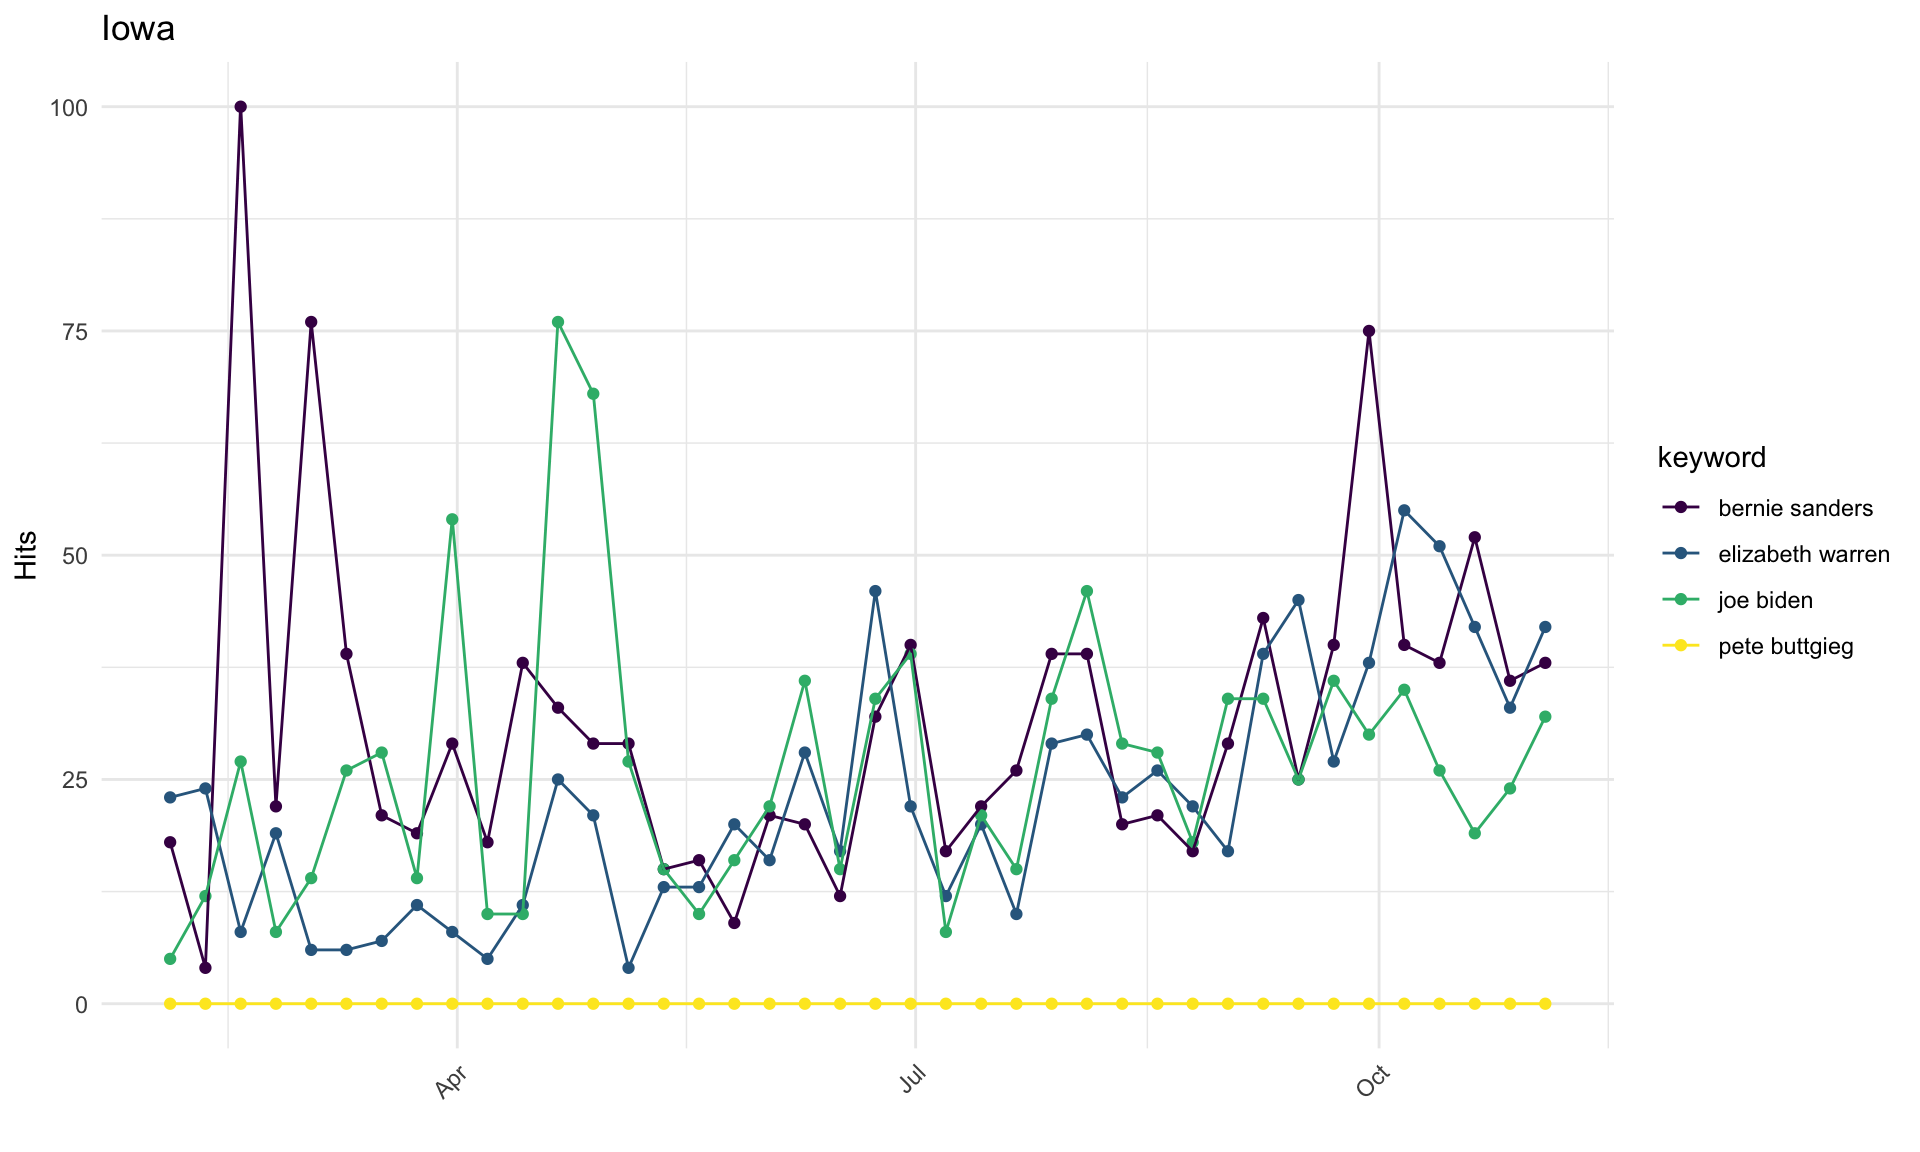
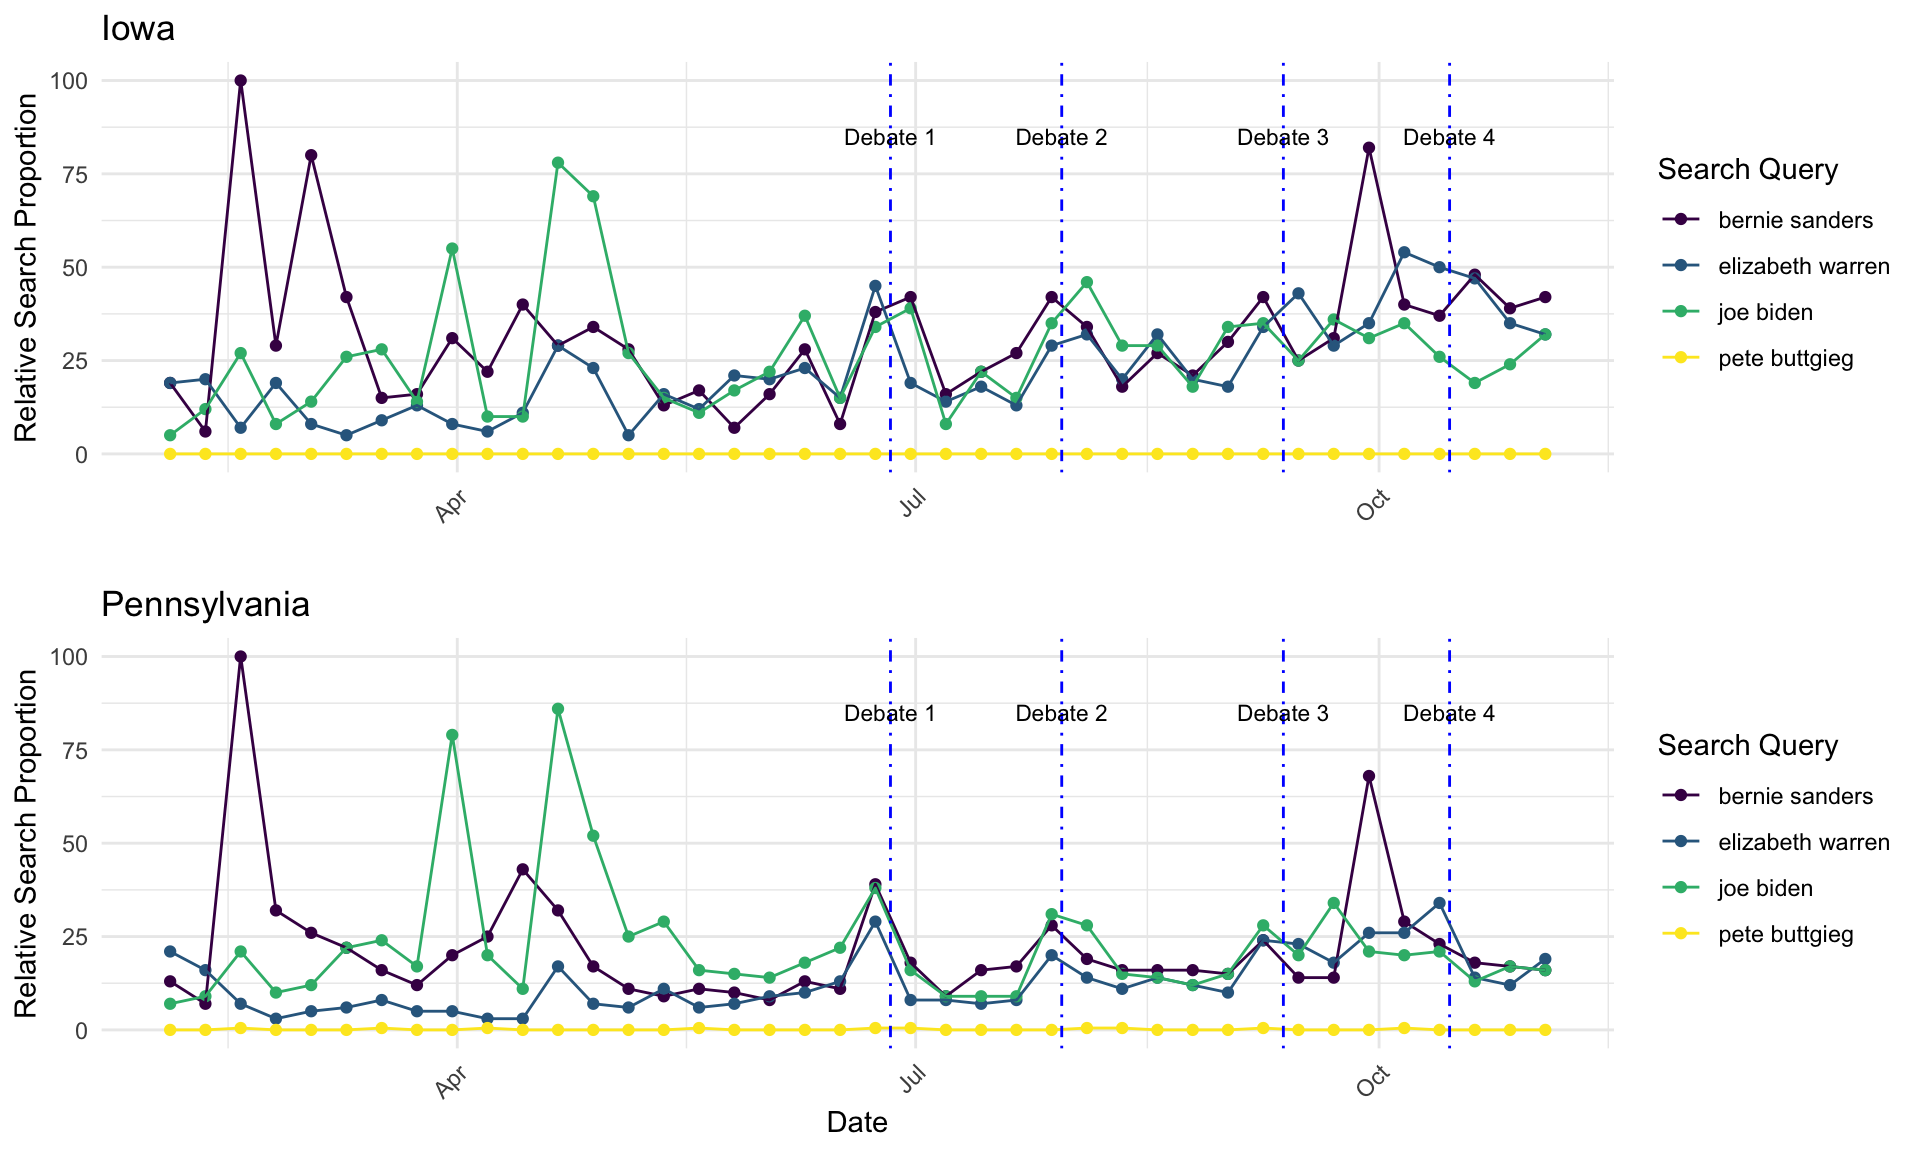
added debate dates to google trends graphs

diff --git a/Battleground.html b/Battleground.html
@@ -340,22 +340,22 @@ $(document).ready(function () {
 <hr />
 <div id="iowa" class="section level3">
 <h3>Iowa</h3>
-<div id="htmlwidget-cb8ae7b6d22a674e493f" style="width:90%;height:576px;" class="plotly html-widget"></div>
-<script type="application/json" data-for="htmlwidget-cb8ae7b6d22a674e493f">{"x":{"visdat":{"478d1c41e3d6":["function () ","plotlyVisDat"]},"cur_data":"478d1c41e3d6","attrs":{"478d1c41e3d6":{"y":{},"color":{},"colors":"Set3","alpha_stroke":1,"sizes":[10,100],"spans":[1,20],"type":"box"}},"layout":{"margin":{"b":40,"l":60,"t":25,"r":10},"yaxis":{"domain":[0,1],"automargin":true,"title":"pct"},"xaxis":{"domain":[0,1],"automargin":true},"hovermode":"closest","showlegend":true},"source":"A","config":{"showSendToCloud":false},"data":[{"fillcolor":"rgba(190,138,190,0.5)","y":[14,16.6,12,7,7.2,14],"type":"box","name":"Buttigieg","marker":{"color":"rgba(190,138,190,1)","line":{"color":"rgba(190,138,190,1)"}},"line":{"color":"rgba(190,138,190,1)"},"xaxis":"x","yaxis":"y","frame":null},{"fillcolor":"rgba(217,235,180,0.5)","y":[28,16.8,22,24.6,24,18,20,12,9],"type":"box","name":"Warren","marker":{"color":"rgba(217,235,180,1)","line":{"color":"rgba(217,235,180,1)"}},"line":{"color":"rgba(217,235,180,1)"},"xaxis":"x","yaxis":"y","frame":null},{"fillcolor":"rgba(225,236,167,0.5)","y":[12.5,21,18,24.1,10.38],"type":"box","name":"Sanders","marker":{"color":"rgba(225,236,167,1)","line":{"color":"rgba(225,236,167,1)"}},"line":{"color":"rgba(225,236,167,1)"},"xaxis":"x","yaxis":"y","frame":null},{"fillcolor":"rgba(241,236,140,0.5)","y":[12,17.6,22,25,29,17,24,19,27,25.3,29,32,30],"type":"box","name":"Biden","marker":{"color":"rgba(241,236,140,1)","line":{"color":"rgba(241,236,140,1)"}},"line":{"color":"rgba(241,236,140,1)"},"xaxis":"x","yaxis":"y","frame":null}],"highlight":{"on":"plotly_click","persistent":false,"dynamic":false,"selectize":false,"opacityDim":0.2,"selected":{"opacity":1},"debounce":0},"shinyEvents":["plotly_hover","plotly_click","plotly_selected","plotly_relayout","plotly_brushed","plotly_brushing","plotly_clickannotation","plotly_doubleclick","plotly_deselect","plotly_afterplot"],"base_url":"https://plot.ly"},"evals":[],"jsHooks":[]}</script>
+<div id="htmlwidget-a3a8be6c7ed0b74345d6" style="width:90%;height:576px;" class="plotly html-widget"></div>
+<script type="application/json" data-for="htmlwidget-a3a8be6c7ed0b74345d6">{"x":{"visdat":{"347f36bca2bb":["function () ","plotlyVisDat"]},"cur_data":"347f36bca2bb","attrs":{"347f36bca2bb":{"y":{},"ylab":"Percent","color":{},"colors":"Set3","alpha_stroke":1,"sizes":[10,100],"spans":[1,20],"type":"box"}},"layout":{"margin":{"b":40,"l":60,"t":25,"r":10},"yaxis":{"domain":[0,1],"automargin":true,"title":"pct"},"xaxis":{"domain":[0,1],"automargin":true},"hovermode":"closest","showlegend":true},"source":"A","config":{"showSendToCloud":false},"data":[{"fillcolor":"rgba(190,138,190,0.5)","y":[14,16.6,12,7,7.2,14],"ylab":"Percent","type":"box","name":"Buttigieg","marker":{"color":"rgba(190,138,190,1)","line":{"color":"rgba(190,138,190,1)"}},"line":{"color":"rgba(190,138,190,1)"},"xaxis":"x","yaxis":"y","frame":null},{"fillcolor":"rgba(217,235,180,0.5)","y":[28,16.8,22,24.6,24,18,20,12,9],"ylab":"Percent","type":"box","name":"Warren","marker":{"color":"rgba(217,235,180,1)","line":{"color":"rgba(217,235,180,1)"}},"line":{"color":"rgba(217,235,180,1)"},"xaxis":"x","yaxis":"y","frame":null},{"fillcolor":"rgba(225,236,167,0.5)","y":[12.5,21,18,24.1,10.38],"ylab":"Percent","type":"box","name":"Sanders","marker":{"color":"rgba(225,236,167,1)","line":{"color":"rgba(225,236,167,1)"}},"line":{"color":"rgba(225,236,167,1)"},"xaxis":"x","yaxis":"y","frame":null},{"fillcolor":"rgba(241,236,140,0.5)","y":[12,17.6,22,25,29,17,24,19,27,25.3,29,32,30],"ylab":"Percent","type":"box","name":"Biden","marker":{"color":"rgba(241,236,140,1)","line":{"color":"rgba(241,236,140,1)"}},"line":{"color":"rgba(241,236,140,1)"},"xaxis":"x","yaxis":"y","frame":null}],"highlight":{"on":"plotly_click","persistent":false,"dynamic":false,"selectize":false,"opacityDim":0.2,"selected":{"opacity":1},"debounce":0},"shinyEvents":["plotly_hover","plotly_click","plotly_selected","plotly_relayout","plotly_brushed","plotly_brushing","plotly_clickannotation","plotly_doubleclick","plotly_deselect","plotly_afterplot"],"base_url":"https://plot.ly"},"evals":[],"jsHooks":[]}</script>
 <p>Median polling results from 33 polls for leading candidates show Biden still ahead of the pack with 25 percentage points but also a large range of 20 points between lowest and highest predictions. Warren follows with a similarly wide range of 19 points. Just a 2 percentage point difference between her and Sanders may signify a tight race for second place. Buttigieg continues to lag behind these three but remains in double digits with 13 points, all the while exhibiting the lowest range in polls at only 9.6 between his highest and lowest predictions.</p>
 </div>
 <div id="pennsylvania" class="section level3">
 <h3>Pennsylvania</h3>
-<div id="htmlwidget-b7b527da3c3d6ff0d124" style="width:90%;height:576px;" class="plotly html-widget"></div>
-<script type="application/json" data-for="htmlwidget-b7b527da3c3d6ff0d124">{"x":{"visdat":{"478d7657a771":["function () ","plotlyVisDat"]},"cur_data":"478d7657a771","attrs":{"478d7657a771":{"y":{},"color":{},"colors":"Set3","alpha_stroke":1,"sizes":[10,100],"spans":[1,20],"type":"box"}},"layout":{"margin":{"b":40,"l":60,"t":25,"r":10},"yaxis":{"domain":[0,1],"automargin":true,"title":"pct"},"xaxis":{"domain":[0,1],"automargin":true},"hovermode":"closest","showlegend":true},"source":"A","config":{"showSendToCloud":false},"data":[{"fillcolor":"rgba(190,138,190,0.5)","y":[8.5],"type":"box","name":"Buttigieg","marker":{"color":"rgba(190,138,190,1)","line":{"color":"rgba(190,138,190,1)"}},"line":{"color":"rgba(190,138,190,1)"},"xaxis":"x","yaxis":"y","frame":null},{"fillcolor":"rgba(217,235,180,0.5)","y":[9,8,8],"type":"box","name":"Warren","marker":{"color":"rgba(217,235,180,1)","line":{"color":"rgba(217,235,180,1)"}},"line":{"color":"rgba(217,235,180,1)"},"xaxis":"x","yaxis":"y","frame":null},{"fillcolor":"rgba(225,236,167,0.5)","y":[6,13],"type":"box","name":"Sanders","marker":{"color":"rgba(225,236,167,1)","line":{"color":"rgba(225,236,167,1)"}},"line":{"color":"rgba(225,236,167,1)"},"xaxis":"x","yaxis":"y","frame":null},{"fillcolor":"rgba(241,236,140,0.5)","y":[46],"type":"box","name":"Biden","marker":{"color":"rgba(241,236,140,1)","line":{"color":"rgba(241,236,140,1)"}},"line":{"color":"rgba(241,236,140,1)"},"xaxis":"x","yaxis":"y","frame":null}],"highlight":{"on":"plotly_click","persistent":false,"dynamic":false,"selectize":false,"opacityDim":0.2,"selected":{"opacity":1},"debounce":0},"shinyEvents":["plotly_hover","plotly_click","plotly_selected","plotly_relayout","plotly_brushed","plotly_brushing","plotly_clickannotation","plotly_doubleclick","plotly_deselect","plotly_afterplot"],"base_url":"https://plot.ly"},"evals":[],"jsHooks":[]}</script>
+<div id="htmlwidget-8c37c273a2021105872f" style="width:90%;height:576px;" class="plotly html-widget"></div>
+<script type="application/json" data-for="htmlwidget-8c37c273a2021105872f">{"x":{"visdat":{"347f1312c919":["function () ","plotlyVisDat"]},"cur_data":"347f1312c919","attrs":{"347f1312c919":{"y":{},"ylab":"Percent","color":{},"colors":"Set3","alpha_stroke":1,"sizes":[10,100],"spans":[1,20],"type":"box"}},"layout":{"margin":{"b":40,"l":60,"t":25,"r":10},"yaxis":{"domain":[0,1],"automargin":true,"title":"pct"},"xaxis":{"domain":[0,1],"automargin":true},"hovermode":"closest","showlegend":true},"source":"A","config":{"showSendToCloud":false},"data":[{"fillcolor":"rgba(190,138,190,0.5)","y":[8.5],"ylab":"Percent","type":"box","name":"Buttigieg","marker":{"color":"rgba(190,138,190,1)","line":{"color":"rgba(190,138,190,1)"}},"line":{"color":"rgba(190,138,190,1)"},"xaxis":"x","yaxis":"y","frame":null},{"fillcolor":"rgba(217,235,180,0.5)","y":[9,8,8],"ylab":"Percent","type":"box","name":"Warren","marker":{"color":"rgba(217,235,180,1)","line":{"color":"rgba(217,235,180,1)"}},"line":{"color":"rgba(217,235,180,1)"},"xaxis":"x","yaxis":"y","frame":null},{"fillcolor":"rgba(225,236,167,0.5)","y":[6,13],"ylab":"Percent","type":"box","name":"Sanders","marker":{"color":"rgba(225,236,167,1)","line":{"color":"rgba(225,236,167,1)"}},"line":{"color":"rgba(225,236,167,1)"},"xaxis":"x","yaxis":"y","frame":null},{"fillcolor":"rgba(241,236,140,0.5)","y":[46],"ylab":"Percent","type":"box","name":"Biden","marker":{"color":"rgba(241,236,140,1)","line":{"color":"rgba(241,236,140,1)"}},"line":{"color":"rgba(241,236,140,1)"},"xaxis":"x","yaxis":"y","frame":null}],"highlight":{"on":"plotly_click","persistent":false,"dynamic":false,"selectize":false,"opacityDim":0.2,"selected":{"opacity":1},"debounce":0},"shinyEvents":["plotly_hover","plotly_click","plotly_selected","plotly_relayout","plotly_brushed","plotly_brushing","plotly_clickannotation","plotly_doubleclick","plotly_deselect","plotly_afterplot"],"base_url":"https://plot.ly"},"evals":[],"jsHooks":[]}</script>
 <p>The smaller sample size of polls (7) may make it difficult to accurately represent current candidate polling status, and this fewer number of polls could be attributed to Pennsylvania possessing a later primary (April 28th), which means it hasn’t garnered as much attention for predictors. However, the overall field is exhibiting a similar trend to Iowa, as Biden leads the way with a median of 30 percentage points among sampled polls. He is followed by Sanders and Warren, who again are polling quite close together at a median of 9.5 and 8 percentage points, respectively. Buttigieg does not trail by much any longer, as he is showing a median of 6.3 percentage points. This means that the 2nd through 4th place candidates are all within 3 points of each other.</p>
 <hr />
 </div>
 </div>
 <div id="google-trends-by-state" class="section level1">
 <h1>Google Trends By State</h1>
-<p><img src="Battleground_files/figure-html/unnamed-chunk-8-1.png" width="90%" /></p>
-<p>Between Iowa and Pennsylvania, there are consistent spikes in search queries for the three leading candidates: Biden, Sanders, and Warren. Not only does each individual’s proportion of searches spike at similar time points in each state, but spikes for all three candidates seem to coincide, suggesting that voters are engaging in searches for numerous candidates at similar times. Sanders experienced significant popularity in search results in early spring and in October, likely around the time of the fourth debate. In spring in both states, he reached a search proportion of 100, which means he was the <a href="https://medium.com/google-news-lab/what-is-google-trends-data-and-what-does-it-mean-b48f07342ee8">most searched topic compared to all others on Google</a> in these regions at that point in time. Biden experienced his greatest spikes in voter search results later in the spring compared to Sanders, potentially due to debate 1 proceedings. Warren did not exhibit any significant spikes in search queries but has seen a steady increase in searches over time, at least in Iowa. Both Biden and Sanders have also expereinced steady overall increases in Iowa voter search queries over time, while in Pennsylvania they’ve ultimately leveled off. All three saw search increases around the third debate in July. Buttigieg however has not been prominent in search queries at any point over the course of the year in either state, despite his recent positive polling results in Iowa. Overall for the top 3 candidates, changes in search results in both states likely have reflected major events in the democratic race thus far, but search queries towards the end of this year do not reflect any clear preference in candidates.</p>
+<p><img src="Battleground_files/figure-html/unnamed-chunk-7-1.png" width="90%" /></p>
+<p>Between Iowa and Pennsylvania, there are consistent spikes in relative search queries for the three leading candidates: Biden, Sanders, and Warren. Not only does each individual’s proportion of searches spike at similar time points in each state, but spikes for all three candidates seem to coincide, suggesting that voters are engaging in searches for numerous candidates at similar times. Sanders experienced significant popularity in relative searches in early spring and in October, likely around the time of the fourth debate. In spring in both states, he reached a <a href="https://medium.com/google-news-lab/what-is-google-trends-data-and-what-does-it-mean-b48f07342ee8">relative search proportion of 100</a>, which indicates the greatest proportion of all Google searches that one of these four queries constituted on a single day during the period of interest. Biden experienced his greatest spikes in voter search queries later in the spring compared to Sanders, potentially due to debate 1 proceedings. Warren did not exhibit any significant spikes in search queries but has seen a steady increase in relative search proporiton over time, at least in Iowa. Both Biden and Sanders have also experienced steady overall increases in relative search proportions over time in Iowa, while in Pennsylvania they’ve ultimately leveled off. All three saw relative search increases around the second debate in July. Buttigieg however has not been prominent in search queries at any point over the course of the year in either state, despite his recent positive polling results in Iowa. Overall for the top 3 candidates, changes in relative search results in both states likely have reflected major events in the democratic race thus far, but search queries towards the end of this year do not reflect any clear preference in candidates.</p>
 </div>
 
 
